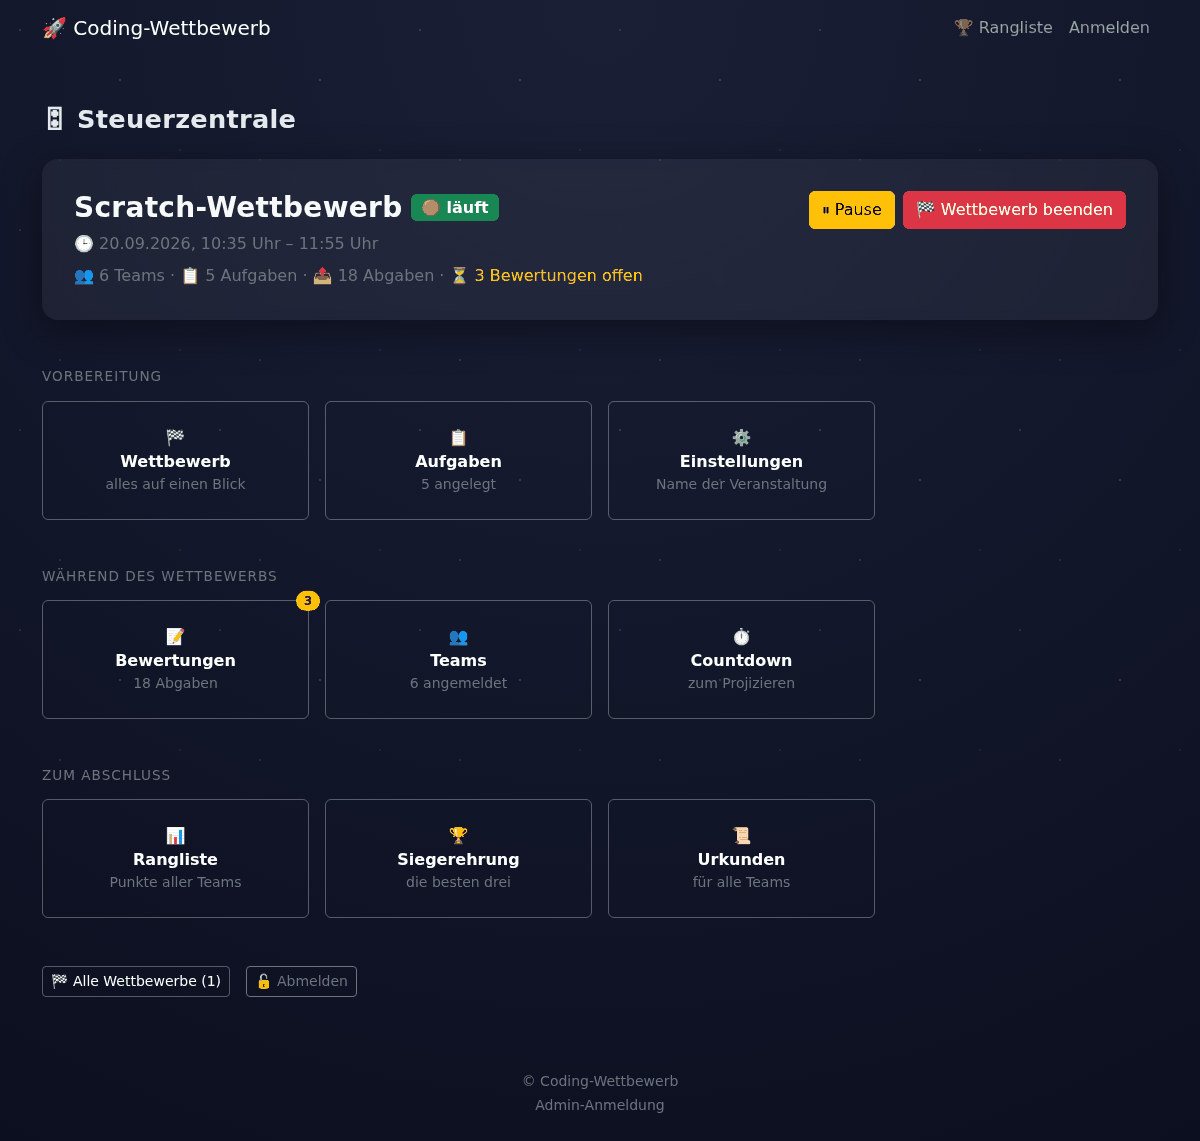
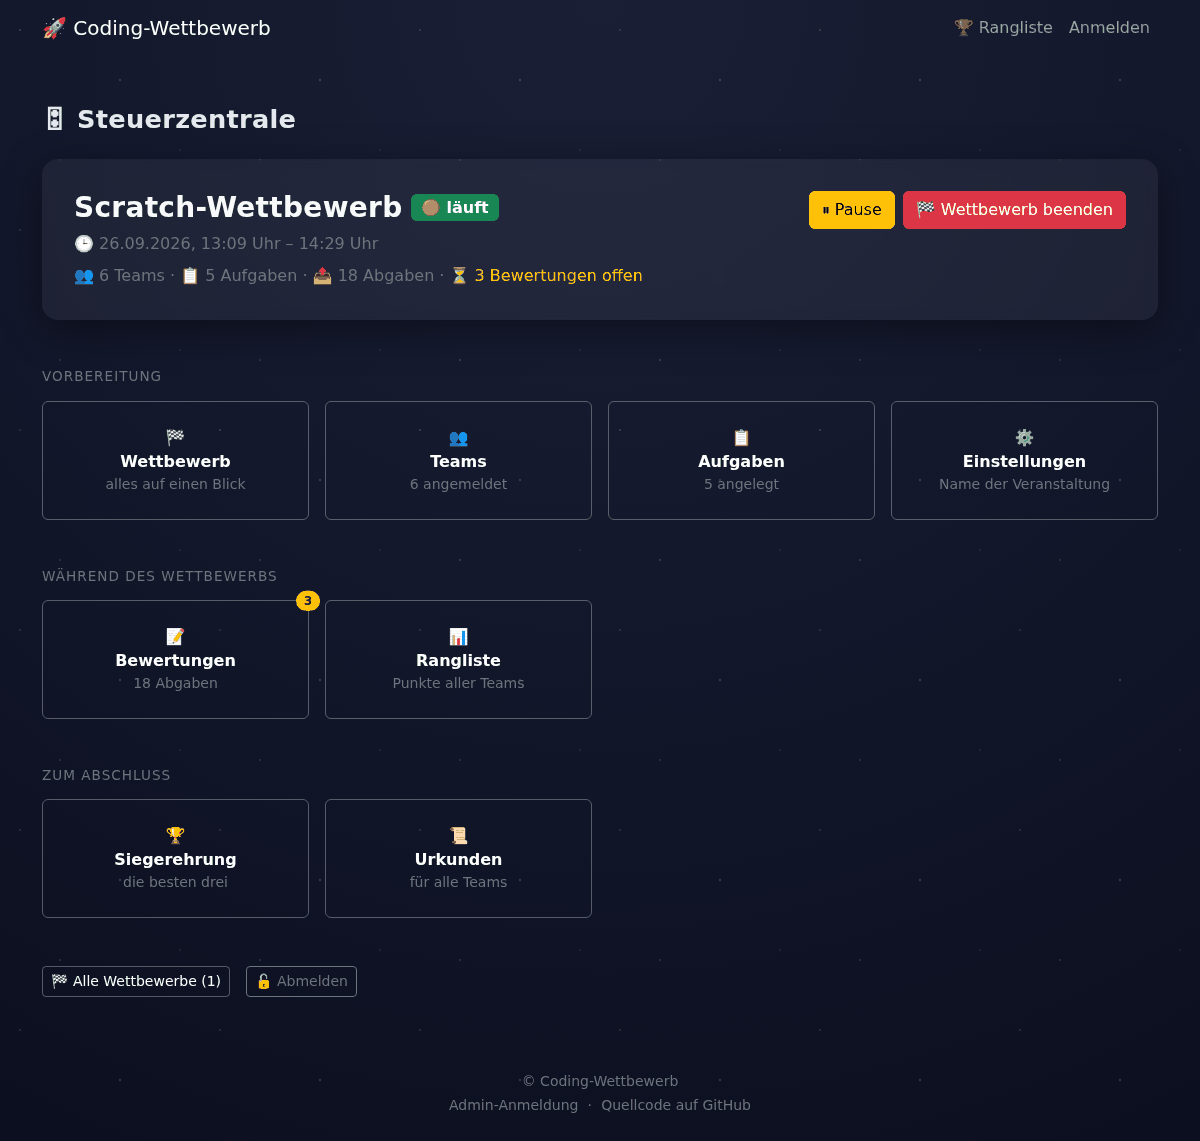
README und Leitfaden auf den Stand nach PR #75 bringen
Der Leitfaden widersprach sich selbst: In „Wenn etwas klemmt" stand noch,
dass die Teams ihre Seite neu laden müssen, um eine geänderte Zeit zu
sehen - zwei Abschnitte darüber stand seit PR #66 zweimal das Gegenteil.
Der Eintrag beschreibt jetzt den Fall, der wirklich übrig ist: keine
Verbindung oder ein Gerät, das geschlafen hat.

„Eine Woche vorher" nannte als einzigen Weg zum Aktualisieren `git pull`.
Die meisten holen die Plattform als ZIP; der Schritt verweist jetzt auf
`--aktualisieren` und auf den Abschnitt der README, der beide Fälle
beschreibt. Der Eintrag zu den abgemeldeten Teams nennt die Version, für
die er galt.

In der README ist „Nutzung" aufgelöst: Der Abschnitt sagte in Kurzform,
was Schnellstart und Leitfaden ausführlich sagen, war als einziger im
alten Du-Befehlston geschrieben und schickte für den Namen des
Wettbewerbs seit PR #54 zum falschen Feld. Was sonst nirgends stand - der
Weg in den Adminbereich und der Hinweis auf `beispiele/` - ist an die
passenden Stellen gewandert.

Dazu: die Einstellungen-Zeile der Features nennt auch Urkundenformat und
Unterschrift, die Tabelle der Tests alle 28 Dateien statt zwölf, und die
Projektstruktur `sitzung.py`.

Die Screenshots der Steuerzentrale und der Rangliste sind nachgestellt.
Die Steuerzentrale war als einzige bei der Auffrischung in PR #64 stehen
geblieben und zeigte noch die Countdown-Kachel aus der Zeit vor PR #74;
der Rangliste fehlte die Restzeit-Leiste aus PR #74/#75.
[…]

diff --git a/README.md b/README.md
@@ -30,7 +30,6 @@ Für den Wettbewerbstag selbst: [Leitfaden](#-leitfaden-für-den-wettbewerbstag)
 - [Features](#-features)
 - [Technologien](#-technologien)
 - [Installation & Setup](#-installation--setup)
-- [Nutzung](#-nutzung)
 - [Leitfaden für den Wettbewerbstag](#-leitfaden-für-den-wettbewerbstag)
 - [Frontend-Bibliotheken aktualisieren](#-frontend-bibliotheken-aktualisieren)
 - [Python-Pakete aktuell halten](#-python-pakete-aktuell-halten)
@@ -68,12 +67,12 @@ Für den Wettbewerbstag selbst: [Leitfaden](#-leitfaden-für-den-wettbewerbstag)
 *   **Steuerzentrale**: Zustand, Teams, Aufgaben und offene Bewertungen auf einen Blick, die Kacheln nach Vorbereitung, Während des Wettbewerbs und Zum Abschluss sortiert.
 *   **Wettbewerbe verwalten**: anlegen, aktivieren, pausieren, beenden und wieder öffnen. Beim Anlegen lassen sich die Teams eines früheren Wettbewerbs übernehmen, mit Passwort und den Namen für die Urkunde.
 *   **Eigener Name je Wettbewerb**: Name und Untertitel stehen auf Startseite, Rangliste, Teamseite und Urkunden und bleiben dort, wenn längst ein anderer läuft.
-*   **Aufgaben**: Beschreibung in Markdown, erlaubtes Dateiformat, optionaler Tipp. Aufgaben lassen sich als JSON sichern, weitergeben und in einen anderen Wettbewerb einlesen — ohne Abgaben und Punkte.
+*   **Aufgaben**: Beschreibung in Markdown, erlaubtes Dateiformat, optionaler Tipp. Aufgaben lassen sich als JSON sichern, weitergeben und in einen anderen Wettbewerb einlesen — ohne Abgaben und Punkte. Fertige Sätze für Scratch und Calliope liegen unter `beispiele/` und sind mit einem Klick eingelesen.
 *   **Zeit im Griff**: Start- und Endzeit oder eine Dauer in Minuten samt „Jetzt starten für … Minuten"; die Pause hält die Uhr an, „Fortsetzen" schiebt das Ende um die Pausendauer nach hinten.
 *   **Bewerten**: Abgaben mit Aufgabenbeschreibung daneben, Textformate direkt im Browser lesbar, Download für lokale Tests, Punkte und Feedback, Korrektur freigeben oder Abgabe löschen.
 *   **Teams**: Passwort zurücksetzen, die eingetragenen Namen kontrollieren, freigeben oder die Freigabe zurücknehmen; eine Zeile oben zeigt, wie viele noch auf die Kontrolle warten.
 *   **Urkunden**: als PDF und Druckansicht, für alle Teams oder einzeln, im Quer- oder Hochformat, mit Namen und Handschrift unter der Unterschriftslinie — auch für einen längst beendeten Wettbewerb, mit den Punkten von damals.
-*   **Einstellungen**: Name und Beschreibung der Anwendung, und ob die Teams ihre Namen eintragen dürfen.
+*   **Einstellungen**: Name und Untertitel der Anwendung, Quer- oder Hochformat der Urkunden, Name und Handschrift unter der Unterschriftslinie, und ob die Teams ihre Namen eintragen dürfen.
 *   **Eigene Fehlerseiten**: deutscher Satz und ein Weg zurück statt der englischen Seite des Webservers. Die gewöhnlichen Missgeschicke landen gar nicht dort, sondern als Meldung auf der Wettbewerbsseite des Teams.
 
 ### Für den Beamer
@@ -231,27 +230,14 @@ siehe [Daten und Sicherungen](#-daten-und-sicherungen).
     mit `PORT=8002` in der `.env` ändern; die Startmeldung, die Startseite und
     der QR-Code nennen danach den neuen Port.
 
-## 📖 Nutzung
-
-1.  **Admin-Zugang**:
-    *   Rufe `/admin` auf (Link auch im Footer der Seite).
-    *   Login mit dem in der `.env` definierten Passwort (`ADMIN_PASSWORD`).
-    *   Passe unter **Einstellungen** bei Bedarf Name und Beschreibung der Veranstaltung an.
-    *   Lege einen neuen Wettbewerb an.
-    *   Füge Aufgaben hinzu, wähle Punkte, erlaubtes Dateiformat und optional einen Hinweis.
-    *   Aktiviere den Wettbewerb.
-
-    *   **Schnellstart:** Unter `beispiele/` liegen fertige Aufgabensätze für
-        Scratch und Calliope. Auf der Aufgaben-Seite mit **⬆ Datei einlesen**
-        laden – dann steht ein kompletter Wettbewerb, den man nach Belieben
-        anpassen kann.
-
-2.  **Teilnehmer**:
-    *   Registrieren sich auf der Startseite (oder scannen den dort angezeigten QR-Code).
-    *   Werden direkt zum aktiven Wettbewerb weitergeleitet.
-    *   Können Lösungen im geforderten Format hochladen.
-
 ## 🧭 Leitfaden für den Wettbewerbstag
+
+Der Weg hinein: `/admin` aufrufen – der Link steht auch in der Fußzeile jeder
+Seite – und mit dem Passwort anmelden, das die Startdatei beim ersten Mal
+abgefragt und als `ADMIN_PASSWORD` in die `.env` geschrieben hat. Den Namen,
+unter dem die Teams ihren Wettbewerb sehen, trägt man beim Anlegen des
+Wettbewerbs ein, nicht unter *Einstellungen* – dort steht der Name der
+Anwendung selbst.
 
 Wie ein Wettbewerb **abläuft** – was eine Woche vorher, am Vortag, während
 des Wettbewerbs und danach zu tun ist, und was zu tun ist, wenn etwas klemmt –
@@ -434,20 +420,58 @@ pytest -k "urkunde"                    # alles rund um Urkunden
 pytest -v                              # mit Namen jedes einzelnen Tests
 ```
 
+**Wettbewerb und Zeit**
+
 | Datei | prüft |
 | --- | --- |
 | `test_challenge_status.py` | geplant / läuft / pausiert / beendet, Restzeiten |
-| `test_teams.py` | Registrierung, Anmeldung, Bindung ans Wettbewerb, Team-Verwaltung |
+| `test_dauer_und_pause.py` | Dauer in Minuten, „Jetzt starten“, Pause hält die Uhr an |
+| `test_zeitleiste.py` | die Restzeit-Leiste auf Wettbewerbsseite und Rangliste |
+| `test_aktualisierung.py` | die Teamseite holt sich den Stand von selbst |
+| `test_veranstaltungsname.py` | eigener Name je Wettbewerb, Urkunden für ältere Wettbewerbe |
+
+**Teams, Abgaben, Bewertung**
+
+| Datei | prüft |
+| --- | --- |
+| `test_teams.py` | Registrierung, Anmeldung, Bindung an den Wettbewerb, Team-Verwaltung |
+| `test_sitzung.py` | die Anmeldung gilt nicht mehr, wenn ihr Wettbewerb gelöscht ist |
 | `test_submissions.py` | Abgabe, Korrektur nach Freigabe, Bewertung |
+| `test_bewertungsseite.py` | die Bewertungsseite lädt Code nach, statt ihn mitzuschicken |
+| `test_aufraeumen.py` | hochgeladene Dateien verschwinden mit ihrer Abgabe |
 | `test_scoring.py` | Rangliste und Podium, auch bei Gleichstand |
-| `test_admin.py` | Steuerzentrale, Wettbewerbs-Seite, Beenden, Aktivieren |
 | `test_certificates.py` | Urkunden-PDF, Unterschrift, Namen der Teammitglieder, Download durch die Teams |
 | `test_mitgliedernamen.py` | Namen eintragen, kontrollieren, freigeben |
-| `test_veranstaltungsname.py` | Eigener Veranstaltungsname je Wettbewerb, Urkunden für ältere Wettbewerbe |
-| `test_task_exchange.py` | Aufgaben sichern und wiederverwenden |
+
+**Seiten und Bedienung**
+
+| Datei | prüft |
+| --- | --- |
+| `test_startseite.py` | QR-Code und abtippbare Adresse |
+| `test_navigation.py` | die obere Leiste, je nach Stand des Wettbewerbs |
+| `test_fusszeile.py` | Name der Anwendung, Admin-Anmeldung, Link auf das Repository |
+| `test_admin.py` | Steuerzentrale, Wettbewerbs-Seite, Beenden, Aktivieren |
+| `test_fehlerseiten.py` | eigene deutsche Seiten für 400/403/404/413/429/500 |
+
+**Betrieb und Werkzeuge**
+
+| Datei | prüft |
+| --- | --- |
+| `test_starter.py` | die Schritte hinter den Startdateien, ohne echtes pip und git |
+| `test_netzwerk.py` | die Adresse, unter der die Teams den Server erreichen |
+| `test_protokoll.py` | `logs/anwendung.log` entsteht und füllt sich |
 | `test_migrations.py` | Datenbank aus einer älteren Version weiterbenutzen |
-| `test_security.py` | CSRF, Passwörter, Uploads, Rate-Limit |
+| `test_task_exchange.py` | Aufgaben sichern und wiederverwenden |
+| `test_leitfaden.py` | der Leitfaden nennt nur Seiten und Dateien, die es gibt |
 | `test_vendor.py` | Versionsliste und `static/vendor/` bleiben deckungsgleich |
+| `test_pakete.py` | das Werkzeug, das nach neueren Python-Paketen sieht |
+
+**Sicherheit**
+
+| Datei | prüft |
+| --- | --- |
+| `test_security.py` | CSRF, Passwörter, Uploads, Rate-Limit |
+| `test_eingaben.py` | Eingaben werden geprüft, auch am Formular vorbei |
 
 ## 📂 Projektstruktur
 
@@ -465,6 +489,7 @@ challenge_plattform/
 ├── certificates.py        # Urkunden als PDF
 ├── task_exchange.py       # Aufgaben sichern und einlesen
 ├── network.py             # Adresse, unter der die Teams beitreten
+├── sitzung.py             # Anmeldung eines Teams und ihre Gültigkeit
 ├── uploads.py             # löscht Dateien mit ihrer Abgabe
 ├── task_rules.py          # Regeln für Aufgabenwerte, für Formular und Import
 ├── requirements.txt       # Abhängigkeiten

diff --git a/docs/ADMIN_GUIDE.md b/docs/ADMIN_GUIDE.md
@@ -12,26 +12,34 @@ Was dort steht, weiß nur, wer mit einer echten Klasse im Raum stand.
 
 ## 📅 Eine Woche vorher
 
-1. **Anwendung auf den Stand bringen und Tests laufen lassen.**
+1. **Anwendung auf den Stand bringen.** Die Startdatei einmal mit
+   `--aktualisieren` aufrufen, also `start_windows.bat --aktualisieren` in
+   der Eingabeaufforderung bzw. `./start_linux.sh --aktualisieren`. Wer die
+   Plattform als ZIP geholt hat, geht den Weg aus der README unter
+   [Aktualisieren](../README.md#aktualisieren) – dort stehen beide Fälle.
+
+   Das braucht Internet – also zu Hause oder am Lehrerrechner, nicht am
+   Wettbewerbstag.
+
+2. **Tests laufen lassen**, wenn eine Entwicklungsumgebung eingerichtet ist:
    ```bash
-   git pull
    pip install -r requirements.txt -r requirements-dev.txt
    pytest
    ```
-   Braucht Internet – also zu Hause oder am Lehrerrechner, nicht am
-   Wettbewerbstag. Wenn `pytest` durchläuft, funktionieren Anmeldung,
-   Abgabe, Bewertung, Rangliste und Urkunden.
+   Wenn `pytest` durchläuft, funktionieren Anmeldung, Abgabe, Bewertung,
+   Rangliste und Urkunden.
 
-2. **Auf Updates sehen** (ebenfalls nur mit Internet):
+3. **Auf Updates sehen:**
    ```bash
    python werkzeuge/vendor_aktualisieren.py --pruefen   # Frontend
    python werkzeuge/pakete_pruefen.py                   # Python-Pakete
    ```
-   Beide ändern nichts, sie zeigen nur an. Eine neue Hauptversion kurz vor
-   dem Wettbewerb **nicht** mehr einspielen – und wenn doch etwas
-   aktualisiert wird, dann eines nach dem anderen und danach `pytest`.
+   Beide brauchen Internet und ändern nichts, sie zeigen nur an. Eine neue
+   Hauptversion kurz vor dem Wettbewerb **nicht** mehr einspielen – und wenn
+   doch etwas aktualisiert wird, dann eines nach dem anderen und danach
+   `pytest`.
 
-3. **Wettbewerb anlegen** unter `/admin` → *Neuer Wettbewerb*: Name,
+4. **Wettbewerb anlegen** unter `/admin` → *Neuer Wettbewerb*: Name,
    Startzeit, Endzeit. Der Name ist der, unter dem die Teams den Wettbewerb
    sehen – „Scratch-Wettbewerb der Klasse 6b“ etwa. Er steht auf der
    Startseite, der Rangliste und auf den Urkunden, und er bleibt bei
@@ -39,17 +47,17 @@ Was dort steht, weiß nur, wer mit einer echten Klasse im Raum stand.
    tragen ihn also auch nächstes Jahr noch. Einen eigenen Untertitel kannst
    du dazuschreiben; leer gelassen gilt der aus *Einstellungen*.
 
-4. **Aufgaben anlegen oder einlesen.** Fertige Sätze liegen unter
+5. **Aufgaben anlegen oder einlesen.** Fertige Sätze liegen unter
    `beispiele/` (Scratch, Calliope) und werden auf der Aufgaben-Seite mit
    **⬆ Datei einlesen** übernommen. Aufgaben aus einem früheren Wettbewerb
    lassen sich dort ebenso einzeln oder als Satz exportieren und wieder
    einlesen.
 
-5. **Urkundenformat wählen** unter *Einstellungen*: Querformat oder Hochformat.
+6. **Urkundenformat wählen** unter *Einstellungen*: Querformat oder Hochformat.
    Am besten jetzt schon eine Probeurkunde ausdrucken – dann weißt du, ob
    Drucker und Papier mitspielen.
 
-6. **Pro Aufgabe festlegen:** Punkte, erlaubtes Dateiformat
+7. **Pro Aufgabe festlegen:** Punkte, erlaubtes Dateiformat
    (z. B. `.sb3` für Scratch, `.hex` für Calliope) und optional einen
    Hinweis. Der Hinweis bleibt verborgen, bis er freigeschaltet wird.
 
@@ -183,9 +191,9 @@ einem Klick. Abgaben, Punkte und Namen bleiben dabei alle erhalten.
 | „Abgabe nicht möglich" bei einem Team | Wettbewerb pausiert, Endzeit überschritten, oder das Team gehört zu einem anderen Wettbewerb. Der Grund steht seit Neuestem als Meldung auf der Wettbewerbsseite des Teams. |
 | Falsches Dateiformat wird abgewiesen | Das erlaubte Format steht pro Aufgabe und in der Meldung, die das Team bekommt. Prüfen, ob es zu dem passt, was die Umgebung tatsächlich exportiert (Scratch: `.sb3`, MakeCode-Calliope: `.hex`). |
 | Wettbewerb gelöscht, ein Team sitzt noch davor | Mit dem Wettbewerb sind seine Teams weg. Das Team landet beim nächsten Klick auf der Startseite und meldet sich dort für den nächsten Wettbewerb neu an. |
-| Nach dem Update auf diese Fassung sind alle Teams abgemeldet | Einmalig und so gewollt: Anmeldungen aus der Zeit davor gelten nicht mehr. Teamname und Passwort bleiben, die Teams melden sich einmal neu an. Darum das Update besser vor dem Wettbewerb einspielen als mittendrin. |
+| Nach dem Update auf v1.1.0 waren alle Teams abgemeldet | Einmalig und so gewollt: Anmeldungen aus der Zeit davor galten nicht mehr. Teamname und Passwort blieben, die Teams meldeten sich einmal neu an. Spätere Updates melden niemanden ab. Ein Update spielt man trotzdem besser vor dem Wettbewerb ein als mittendrin. |
 | Versehentlich beendet | **🔓 Wieder öffnen** auf der Wettbewerbsseite. Die Endzeit wird gelöscht und muss neu gesetzt werden. |
-| Teams sehen die geänderte Zeit nicht | Sie müssen die Seite einmal neu laden. Die Uhr im Browser rechnet ab dem Stand, den der Server beim Laden geschickt hat, und erfährt von sich aus nichts von einer neuen Zeit. |
+| Teams sehen die geänderte Zeit nicht | Normalerweise kommt sie innerhalb von etwa 15 Sekunden von selbst an; die Teamseiten fragen den Server in diesem Takt nach dem Stand. Bleibt die alte Zeit stehen, hat das Gerät die Verbindung zum Server verloren oder das Tablet hat geschlafen. Einmal neu laden, dann stimmt sie wieder. |
 | Ein Gerät erreicht den Server nicht | Zuerst die Adresse auf der Startseite mit der im Terminal vergleichen. Dann Firewall. Dann, ob das Gerät im selben Netz hängt (nicht im Gast-WLAN). |
 | Auf der Startseite steht `127.0.0.1` | Das Netz hat kein Gateway, die Anwendung kann ihre eigene Adresse nicht erfragen – sie sagt das beim Start. Adresse am Server ablesen (`ip addr` bzw. `ipconfig`) und als `LAN_ADRESSE=192.168.…` in die `.env` eintragen, dann neu starten. |
 | Datenbank fehlt oder ist kaputt | Anwendung beenden. `data/challenge.db` zur Seite legen, die passende Sicherung `data/challenge-vor-….db` nach `data/challenge.db` umbenennen, neu starten. Die Sicherungen entstehen automatisch vor jeder Strukturänderung – eine regelmäßige Sicherung ersetzen sie nicht. |
